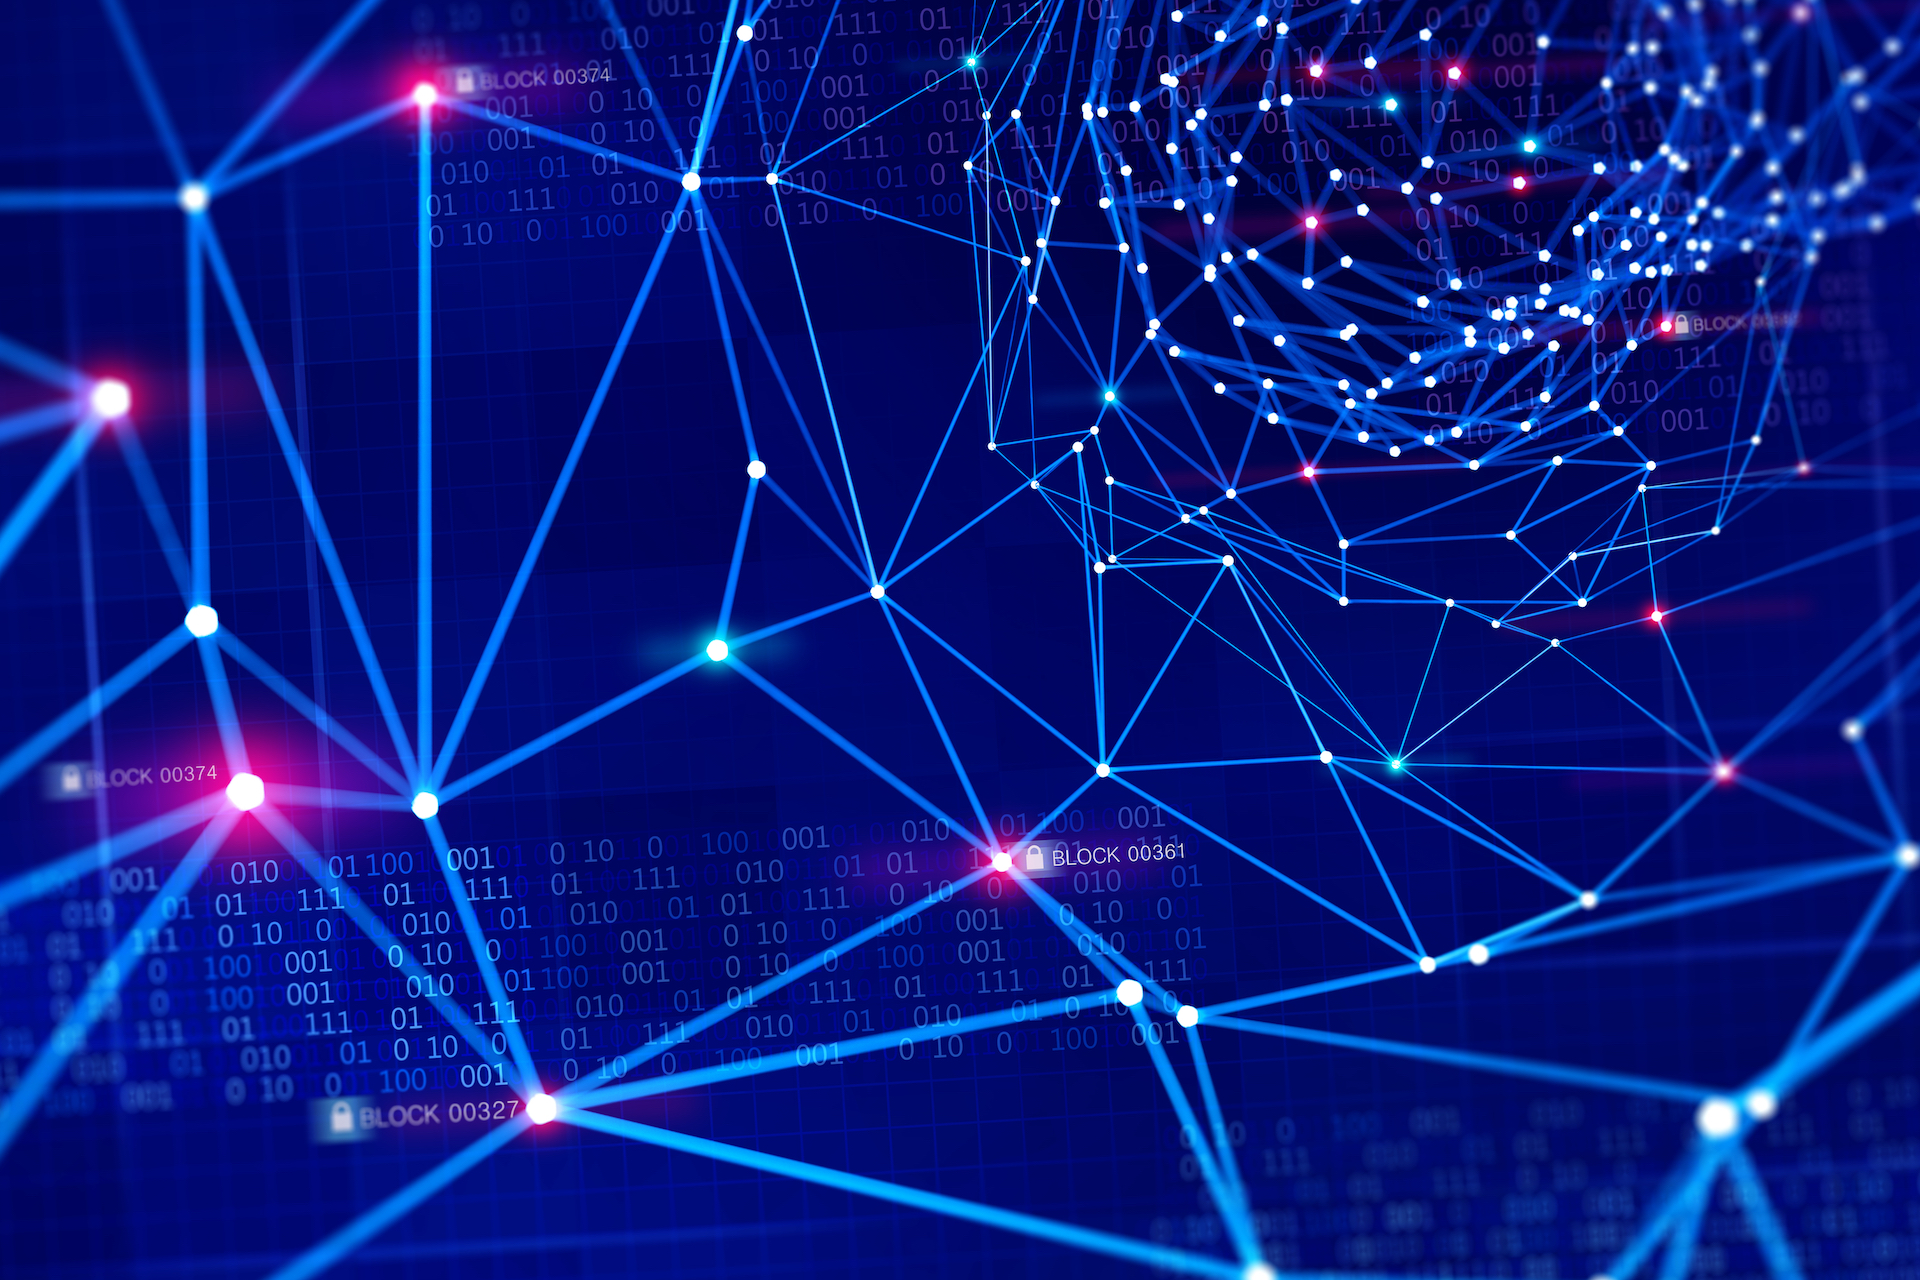
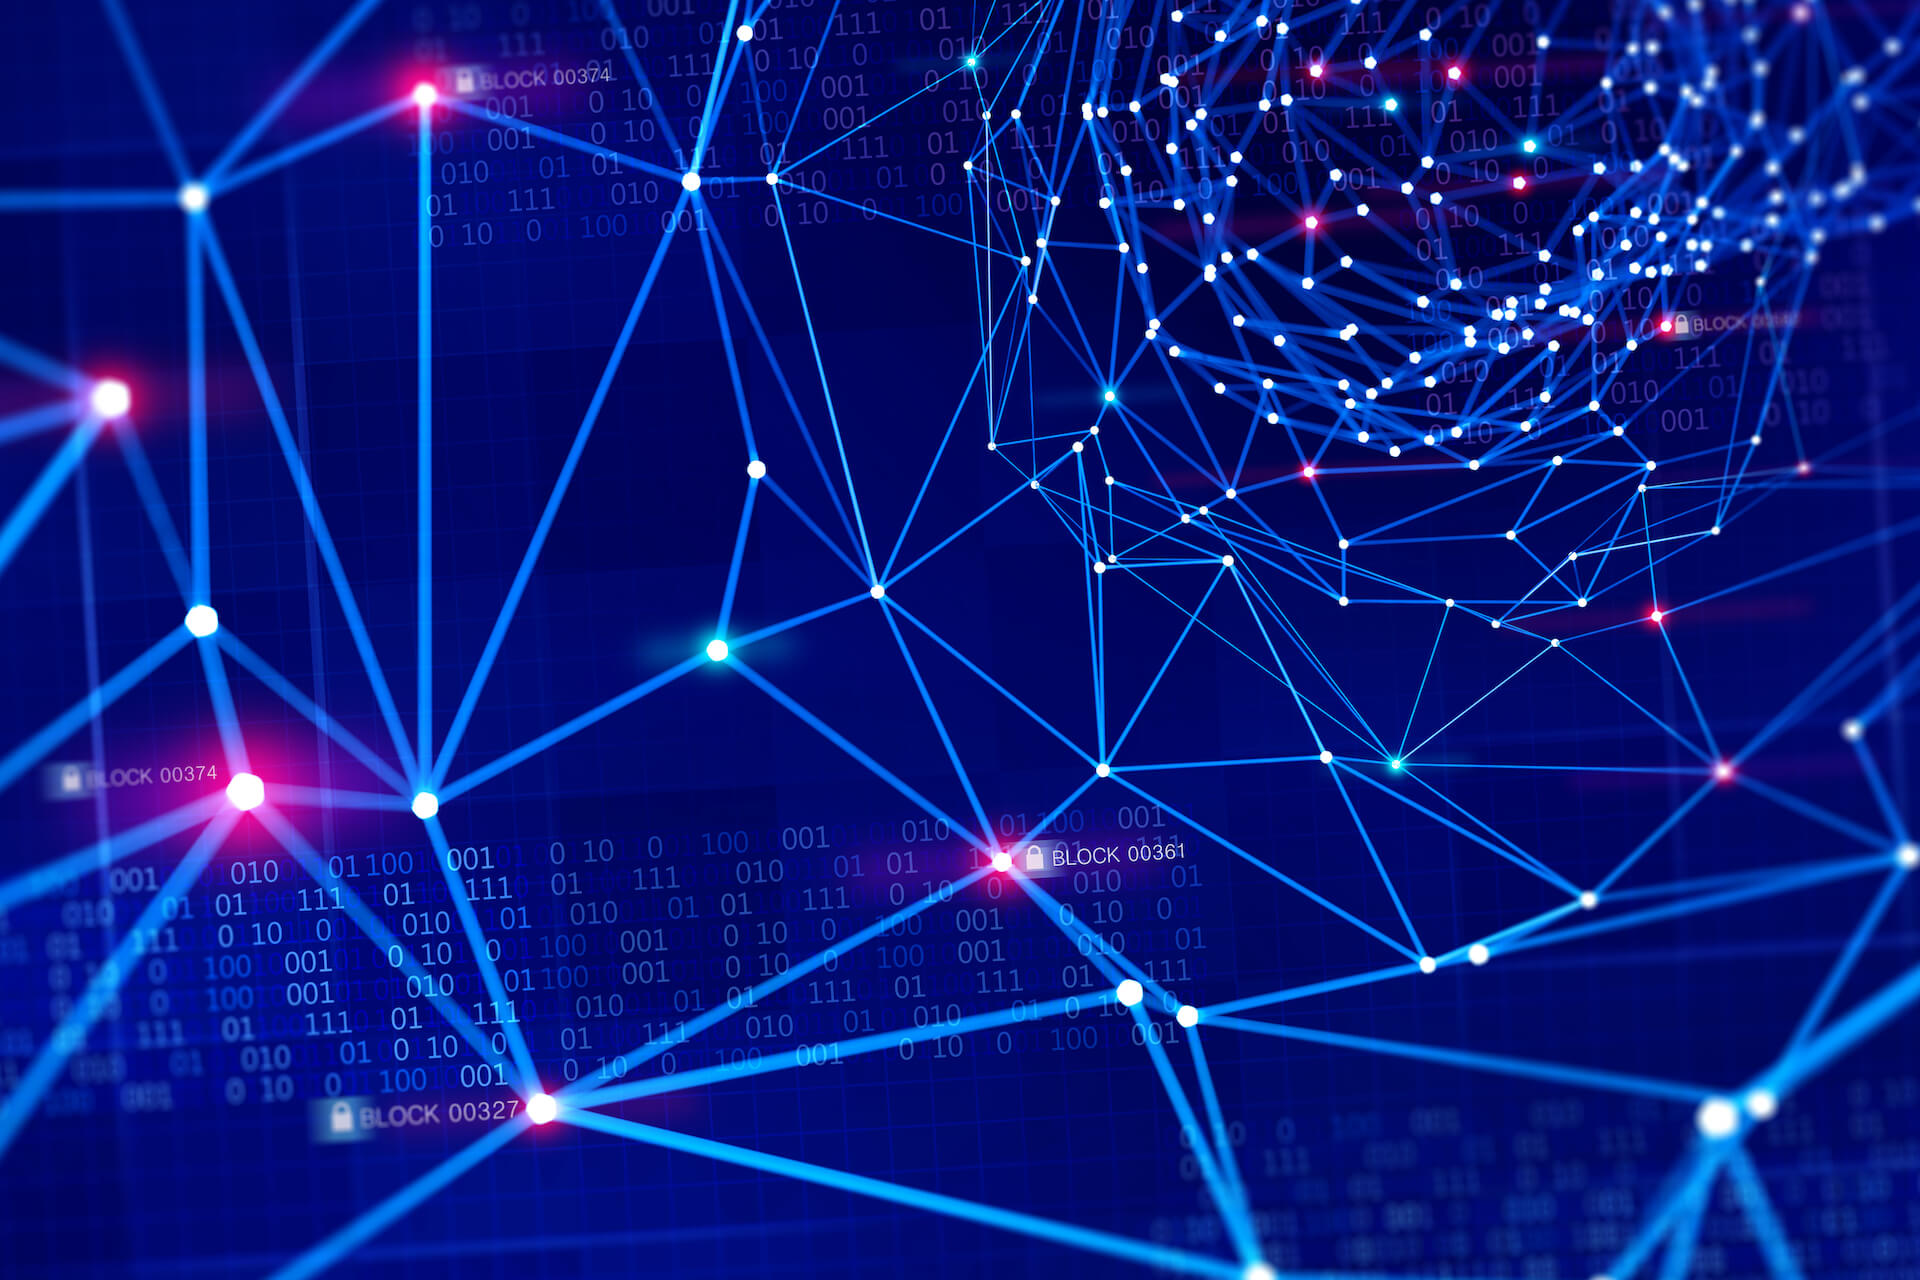
1. Reduce image sizes. 2. Update links.

Changed region(s): [[0.7812, 0.2188, 0.8125, 0.25], [0.5625, 0.0625, 0.5938, 0.0938]]

diff --git a/index.html b/index.html
@@ -314,13 +314,13 @@
       <div class="row">
         <div class="col-md-4">
           <div class="card card-plain" id="blockchain-explorer">
-            <a href="http://www.creative-tim.com/product/light-bootstrap-dashboard-pro" target="_blank">
+            <a href="#pricing-4" target="_blank">
               <div class="card-header card-header-image">
                 <img src="assets/img/explorer-tx.png">
               </div>
             </a>
             <div class="card-body">
-              <a href="http://www.creative-tim.com/product/light-bootstrap-dashboard-pro" target="_blank">
+              <a href="#pricing-4" target="_blank">
                 <h4 class="card-title">Blockchain Explorer</h4>
               </a>
               <h6 class="card-category">Blockchain Visualisation</h6>
@@ -328,7 +328,7 @@
                 Our Blockchain Explorer provides a rich environment for viewing details of your smart contracts running and transactions taking place on the blockchain.
                 <br>
                 <br>
-                Want to try it out? We provide <a href="">free and hosted versions</a>.
+                Want to try it out? We provide <a href="#pricing-4">free and hosted versions</a>.
               </p>
             </div>
           </div>
@@ -341,7 +341,7 @@
               </div>
             </a>
             <div class="card-body ">
-              <a href="http://www.creative-tim.com/product/get-shit-done-pro" target="_blank">
+              <a href="https://github.com/web3j" target="_blank">
                 <h4 class="card-title">Open Source Foundations</h4>
               </a>
               <h6 class="card-category">We <i class="material-icons">favorite</i> Open Source Software</h6>
@@ -356,19 +356,20 @@
         </div>
         <div class="col-md-4">
           <div class="card card-plain">
-            <a href="https://github.com/web3j" target="_blank">
+            <a href="https://github.com/jpmorganchase/quorum" target="_blank">
               <div class="card-header card-header-image">
                 <img src="assets/img/quorum.png">
               </div>
             </a>
             <div class="card-body ">
-              <a href="http://www.creative-tim.com/product/get-shit-done-pro" target="_blank">
+              <a href="https://entethalliance.org/" target="_blank">
                 <h4 class="card-title">Enterprise Ethereum</h4>
               </a>
               <h6 class="card-category">Quorum</h6>
               <p class="card-description">
-                Quorum, originally developed by J.P Morgan is an enterprise-grade version of Ethereum. The blockchain is just one part of the platform, but we also support
-                other blockchain platforms compatible with the Enterprise Ethereum <a href="https://entethalliance.org/resources/" target="_blank">Client Specification</a>.
+                <a href="https://github.com/jpmorganchase/quorum" target="_blank">Quorum</a>, originally developed by J.P Morgan is an enterprise-grade version of Ethereum.
+                The blockchain is just one part of the platform, but we also support other blockchain platforms compatible with the Enterprise Ethereum
+                <a href="https://entethalliance.org/resources/" target="_blank">Client Specification</a>.
               </p>
             </div>
           </div>
